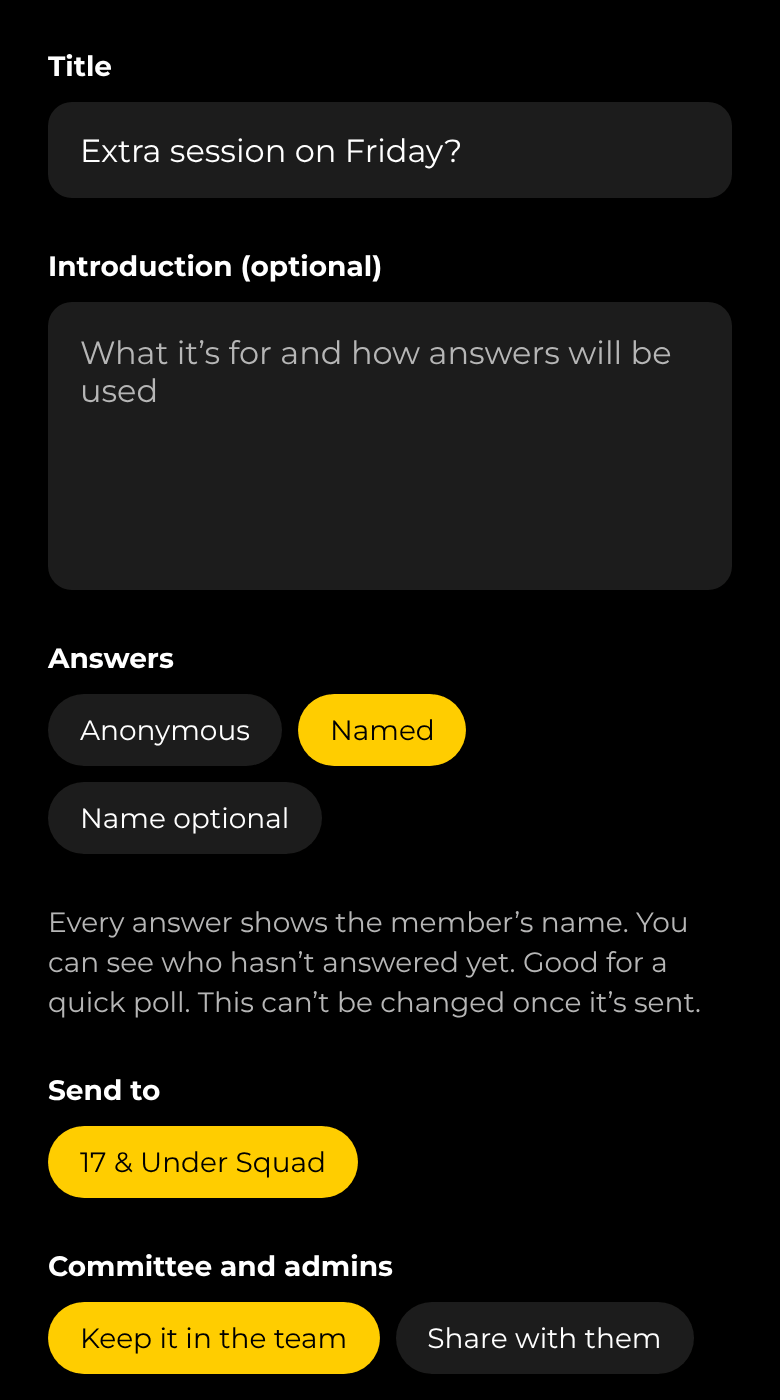
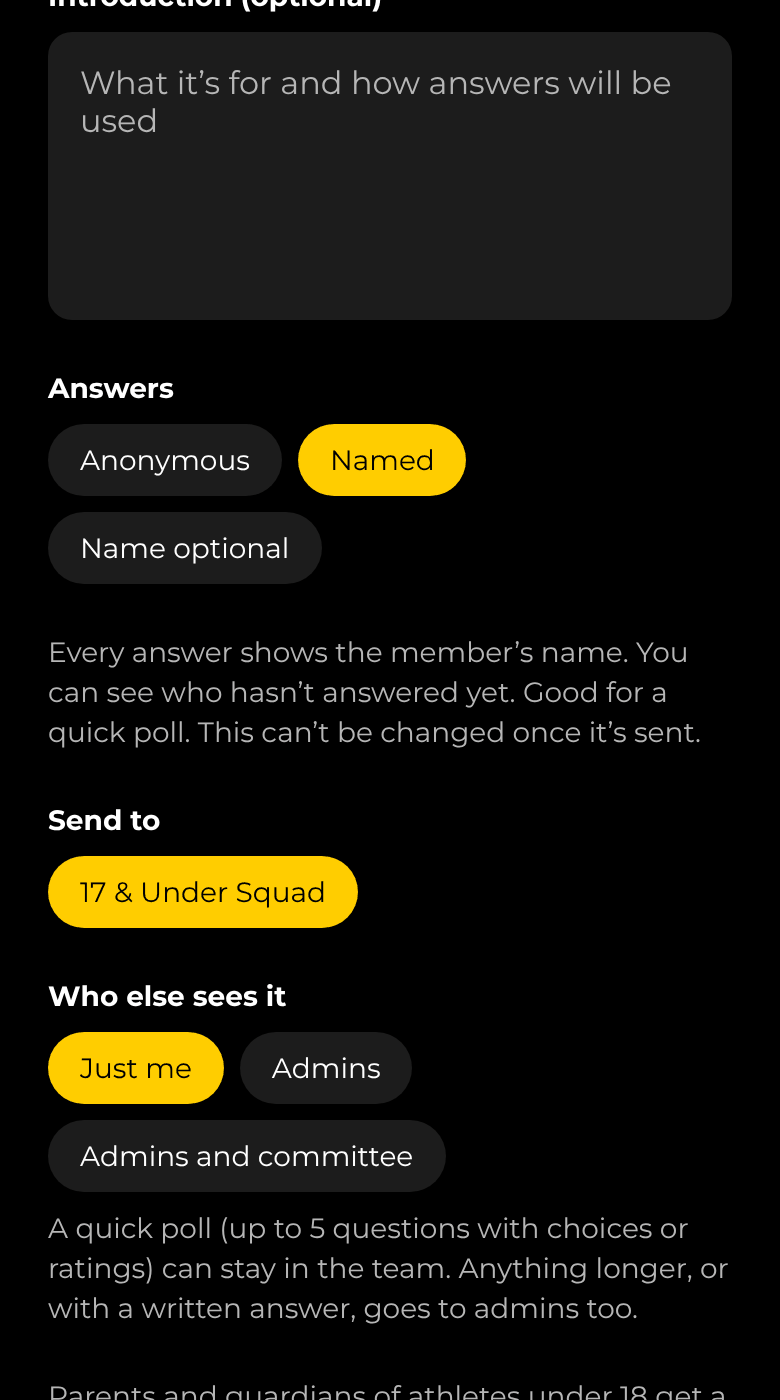
Send coach surveys beyond a quick poll to admins
A coach or manager's survey can stay in the team only if it is a quick
poll: up to 5 questions with choices or ratings. Anything longer, or with
a written answer, is always seen by admins too. Coaches choose who else
sees it: Just me (quick polls only), Admins, or Admins and committee.

Claude-Session: https://claude.ai/code/session_011mgcLG2v6Sjj6gzeqmDwPH

diff --git a/src/app/surveys/new.tsx b/src/app/surveys/new.tsx
@@ -14,6 +14,8 @@ import { useLedGroups } from '@/lib/messages';
 import { supabase } from '@/lib/supabase';
 import {
   CAPTAIN_MAX_QUESTIONS,
+  isTeamPoll,
+  TEAM_POLL_MAX_QUESTIONS,
   endOfDayIso,
   identityDetails,
   identityLabels,
@@ -85,7 +87,7 @@ export default function NewSurveyScreen() {
   const [opensOn, setOpensOn] = useState<string | null>(toDateString(new Date()));
   const [closesOn, setClosesOn] = useState<string | null>(daysFromToday(14));
   const [questions, setQuestions] = useState<DraftQuestion[]>([newQuestion()]);
-  const [shareWithCommittee, setShareWithCommittee] = useState(false);
+  const [share, setShare] = useState<'team' | 'admins' | 'committee'>('team');
   // Someone who leads one group doesn't need to pick it.
   const selectedTeamId = teamId ?? (!canManage && groups.length === 1 ? groups[0].id : null);
   // A coach or manager's survey stays with the team unless they share it.
@@ -96,6 +98,10 @@ export default function NewSurveyScreen() {
     ? ['choice', 'multi_choice']
     : ['choice', 'multi_choice', 'rating', 'text'];
   const maxQuestions = asCaptain ? CAPTAIN_MAX_QUESTIONS : 30;
+  // Only a quick poll can stay in the team; anything longer, or with a
+  // written answer, goes to admins too. The database applies the same rule.
+  const teamPoll = isTeamPoll(questions);
+  const sharedWith = asLeader ? (share === 'team' && !teamPoll ? 'admins' : share) : null;
   const [sending, setSending] = useState(false);
   const [error, setError] = useState<string | null>(null);
 
@@ -149,7 +155,8 @@ export default function NewSurveyScreen() {
         rating_max: q.kind === 'rating' ? Number(q.ratingMax) : null,
         required: q.required,
       })),
-      p_share_with_committee: asLeader && shareWithCommittee,
+      p_share_with_committee: sharedWith === 'committee',
+      p_share_with_admins: sharedWith === 'admins' || sharedWith === 'committee',
     });
     setSending(false);
     if (sendError) return setError(sendError.message);
@@ -234,16 +241,24 @@ export default function NewSurveyScreen() {
           />
         )
       ) : null}
-      {asLeader ? (
-        <ChipGroup
-          label="Committee and admins"
-          options={[
-            { value: 'no', label: 'Keep it in the team' },
-            { value: 'yes', label: 'Share with them' },
-          ]}
-          selected={[shareWithCommittee ? 'yes' : 'no']}
-          onToggle={(value) => setShareWithCommittee(value === 'yes')}
-        />
+      {asLeader && sharedWith ? (
+        <View style={styles.options}>
+          <ChipGroup
+            label="Who else sees it"
+            options={[
+              ...(teamPoll ? [{ value: 'team' as const, label: 'Just me' }] : []),
+              { value: 'admins' as const, label: 'Admins' },
+              { value: 'committee' as const, label: 'Admins and committee' },
+            ]}
+            selected={[sharedWith]}
+            onToggle={setShare}
+          />
+          <ThemedText type="small" themeColor="textSecondary">
+            {teamPoll
+              ? `A quick poll (up to ${TEAM_POLL_MAX_QUESTIONS} questions with choices or ratings) can stay in the team. Anything longer, or with a written answer, goes to admins too.`
+              : `Admins see surveys with more than ${TEAM_POLL_MAX_QUESTIONS} questions or a written answer, so the club knows what members are asked.`}
+          </ThemedText>
+        </View>
       ) : null}
       <ThemedText type="small" themeColor="textSecondary">
         Parents and guardians of athletes under 18 get a copy so they can see what their child is
@@ -356,9 +371,11 @@ export default function NewSurveyScreen() {
           ? 'Only you, the committee and admins see results.'
           : asCaptain
             ? 'Only you and the coaches and managers of your squad or team see results.'
-            : asLeader && shareWithCommittee
+            : sharedWith === 'committee'
               ? 'Only you, the committee and admins see results.'
-              : 'Only you see results.'}
+              : sharedWith === 'admins'
+                ? 'Only you and admins see results.'
+                : 'Only you see results.'}
       </ThemedText>
       <ErrorText>{error}</ErrorText>
       <Button title="Send survey" onPress={send} busy={sending} />

diff --git a/src/lib/surveys.ts b/src/lib/surveys.ts
@@ -74,6 +74,7 @@ export type ManagedSurvey = {
   created_by_name: string | null;
   sent_as: SurveySentAs;
   share_with_committee: boolean;
+  share_with_admins: boolean;
   sent_to: number;
   answered: number;
   status: 'scheduled' | 'open' | 'closed';
@@ -114,6 +115,8 @@ export type SurveyDetail = {
   sent_as: SurveySentAs;
   /** A coach or manager let the committee and admins see it too. */
   share_with_committee: boolean;
+  /** Admins see a coach or manager's survey: always unless it's a quick poll. */
+  share_with_admins: boolean;
   /** Whoever sent it; the committee and admins for theirs and shared ones; coaches and managers for captains' polls. */
   can_see_results: boolean;
   /** Whoever sent it, an admin who can see it, or the group's coaches and managers for a captain's poll, while it's open. */
@@ -238,13 +241,22 @@ export function useCaptainedPollGroupIds() {
 
 /** Who sees a survey's answers, in words for the people answering it. */
 export function surveyAnswersSeenBy(
-  survey: Pick<SurveyDetail, 'sent_as' | 'share_with_committee'>,
+  survey: Pick<SurveyDetail, 'sent_as' | 'share_with_committee' | 'share_with_admins'>,
 ) {
   if (survey.sent_as === 'committee') return 'whoever sent it, the committee and admins';
   if (survey.sent_as === 'captain') return 'whoever sent it and the group’s coaches and managers';
-  return survey.share_with_committee
-    ? 'whoever sent it, the committee and admins'
-    : 'whoever sent it';
+  if (survey.share_with_committee) return 'whoever sent it, the committee and admins';
+  return survey.share_with_admins ? 'whoever sent it and admins' : 'whoever sent it';
+}
+
+/** Coaches' and managers' quick polls can stay in the team: up to this many questions, with choices or ratings. */
+export const TEAM_POLL_MAX_QUESTIONS = 5;
+
+/** Whether a coach or manager's survey is a quick poll that can stay in the team. */
+export function isTeamPoll(questions: { kind: SurveyQuestionKind }[]) {
+  return (
+    questions.length <= TEAM_POLL_MAX_QUESTIONS && questions.every((q) => q.kind !== 'text')
+  );
 }
 
 /** Surveys sent to the member that have opened, refreshed when the screen is shown. */

diff --git a/src/app/surveys/index.tsx b/src/app/surveys/index.tsx
@@ -131,7 +131,11 @@ function ManagedList({ surveys }: { surveys: ManagedSurvey[] | null }) {
               {identityLabels[s.identity]} · To{' '}
               {surveyAudienceLabel(s.audience, s.audience_role, s.audience_label)}
               {s.sent_as === 'committee' ? '' : ` · From ${s.created_by_name ?? 'a member'}`}
-              {s.share_with_committee ? ' · Shared with the committee' : ''}
+              {s.share_with_committee
+                ? ' · Shared with the committee and admins'
+                : s.share_with_admins
+                  ? ' · Shared with admins'
+                  : ''}
             </ThemedText>
             <ThemedText type="small" themeColor="textSecondary">
               {s.status === 'scheduled'

diff --git a/docs/user-guide.md b/docs/user-guide.md
@@ -402,8 +402,8 @@ can't change your answers once they're sent, and you can answer each survey once
 who sees answers, and it's never other members:
 
 - a survey from the committee or an admin: whoever sent it, the committee and admins;
-- a survey from a coach or manager: only whoever sent it, unless they shared it with the committee
-  and admins;
+- a survey from a coach or manager: whoever sent it, plus admins for anything longer than a quick
+  poll or with a written answer, and the committee too if the coach shared it;
 - a poll from a captain: the captain who sent it and the squad or team's coaches and managers.
 
 Athletes under 18 see a reminder on anonymous and name-optional surveys: nobody can reply to
@@ -1300,13 +1300,19 @@ club](#surveys-for-the-club)), except that **Send to** only offers your own grou
 just one, it's picked for you. A **Named** survey with one **One choice** question makes a quick
 poll, and shows who hasn't answered yet.
 
-Your survey is a team thing: the committee and admins don't see it. If you want them to, choose
-**Share with them** under **Committee and admins** before you send it, for example for a survey
-about the season the committee should read. You can't change this once it's sent.
+Under **Who else sees it**, choose:
+
+- **Just me**: only for a quick poll, up to 5 questions with choices or ratings and no written
+  answers. It stays in the team.
+- **Admins**: needed for anything longer, or with a written answer, so the club knows what members
+  are asked. Admins see the results; anonymous answers stay anonymous.
+- **Admins and committee**: for example, a survey about the season the committee should read.
+
+You can't change this once it's sent.
 
 <img src="user-guide/survey-coach-new.png" width="210" alt="A coach sending a poll to their squad"> <img src="user-guide/surveys-coach-list.png" width="210" alt="A coach's surveys">
 
-**My groups** lists your own surveys and the polls your captains send. You see the results of the
+**My groups** lists your own surveys and the polls your captains send, with who else sees each one. You see the results of the
 surveys you sent, while you still coach or manage that squad or team with a current check,
 including after the season ends. You don't see other coaches' surveys. You also see your squad or
 team's captains' polls and their results, and can tap **Close it now** on one. The same rules keep
@@ -1418,9 +1424,10 @@ also coaches or manages a squad or team can choose **A squad or team** to messag
 
 ### Surveys for the club
 
-Committee members and admins make surveys and read their results. Surveys and polls that coaches,
-managers and captains send to their own squads and teams stay with the team, so they don't show
-here unless a coach or manager shares one with the committee and admins. Open **Surveys** from the
+Committee members and admins make surveys and read their results. Coaches' and managers' quick
+polls and captains' polls stay with the team, so they don't show here. Admins also see every
+coach or manager survey that's longer than 5 questions or has a written answer, and the committee
+sees the ones a coach shares with them. Open **Surveys** from the
 home screen and tap **New survey**.
 
 1. Give it a title, and an introduction if you like.
@@ -1437,8 +1444,8 @@ home screen and tap **New survey**.
 
 <img src="user-guide/survey-new.png" width="210" alt="Making a new survey"> <img src="user-guide/survey-new-questions.png" width="210" alt="Adding questions to a survey">
 
-**Club surveys** lists the committee's and admins' surveys and the ones coaches and managers
-shared, with who it went to, when it opens or closes, and how many have answered. Open one and tap
+**Club surveys** lists the committee's and admins' surveys and the coach and manager surveys you
+can see, with who it went to, when it opens or closes, and how many have answered. Open one and tap
 **See results**. The person who made a survey, or an admin, can tap **Close it now** to stop more
 answers.
 
@@ -2518,7 +2525,7 @@ once saved, only replaced or removed, and anyone who gets it wrong five times in
 | Committee checks date   | Everyone signed in. Only admins change it, and only to bring it forward; who changed it and when is kept. |
 | Messages                | The people they were sent to, the sender, and admins. Guardians of athletes under 18 get a copy of every message sent to their athlete, and of every message their athlete sends as a captain. Guests don't get messages; physios get messages sent to the Physio role and to their squads and teams, and whole-club messages only if an admin turns that on. |
 | Read receipts           | The sender and admins.                                                                                                      |
-| Survey answers          | Whoever sent the survey. The committee and admins for their own surveys and ones a coach or manager shared with them. A coach or manager's survey to their own squad or team is seen only by them while they still coach or manage it, unless they shared it. A captain's poll is seen by the captain while they're captain, and by the squad or team's coaches and managers. Named answers show the member's name; parents and guardians of an athlete under 18 also read their child's named answers. Anonymous answers, and name-optional answers given without a name, are kept with no name, no member and no time, so nobody can see who gave them, admins included; their results show only once the survey has closed and at least 3 people have answered. Members never see each other's answers. Whoever sees the results can download them as a PDF or spreadsheet, except captains. |
+| Survey answers          | Whoever sent the survey. The committee and admins for their own surveys and ones a coach or manager shared with them. A coach or manager's survey to their own squad or team is seen by them while they still coach or manage it, by admins unless it's a quick poll (up to 5 questions with choices or ratings), and by the committee if they shared it. A captain's poll is seen by the captain while they're captain, and by the squad or team's coaches and managers. Named answers show the member's name; parents and guardians of an athlete under 18 also read their child's named answers. Anonymous answers, and name-optional answers given without a name, are kept with no name, no member and no time, so nobody can see who gave them, admins included; their results show only once the survey has closed and at least 3 people have answered. Members never see each other's answers. Whoever sees the results can download them as a PDF or spreadsheet, except captains. |
 | Who has answered a survey | Named surveys: whoever can see the results sees who hasn't answered yet. Anonymous and name-optional surveys: only how many have answered. Each member sees whether they've answered themselves. |
 | Daily check-in answers and notes | The athlete, their guardians and their coaches. For an athlete under 18, their coaches only once a parent or guardian consents, and until then their check-ins count in no average. The committee, physios and admins see only group averages, hidden below 3 check-ins (over three days, in Trends). |
 | Injuries and documents  | For an athlete under 18 whose parents haven't given consent for injuries: only the athlete, their guardians and admins. Otherwise the athlete, their guardians, their coaches, the physios who look after them (the Head Physio and physios in their squad or team), the committee and admins. Managers don't see injuries. Whoever takes attendance (coaches, managers, the committee and admins) sees only that an athlete is **Injured** and their expected return date, whatever the consent. Only the committee member or admin accepting a clearance can share its documents, while it waits for them; everyone else views them in the app. |
@@ -2763,6 +2770,9 @@ Working With Children Check, and another admin must do it.
 - **Record views are logged.** Every time someone other than a child or their guardians opens an
   under 18's injuries, injury documents, check-ins, game goals, season KPIs, named survey answers or member record, it's recorded.
   Admins see the list on the child's member page, and parents and guardians on their home screen.
+- **Admins see what coaches ask children.** Only a coach or manager's quick poll, up to 5
+  questions with choices or ratings, can stay within the team. Any longer survey, or any survey
+  with a written answer, is always seen by admins too.
 - **Downloads of children's answers are recorded.** Downloading a survey's results as a PDF or
   spreadsheet is recorded in the record views of every athlete under 18 it names. Captains read
   their polls' results in the app but can't download them.
